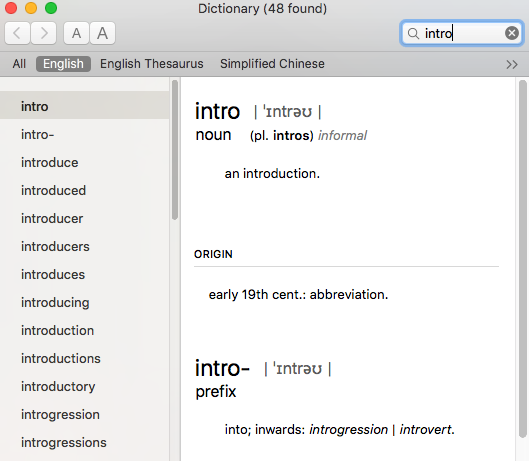
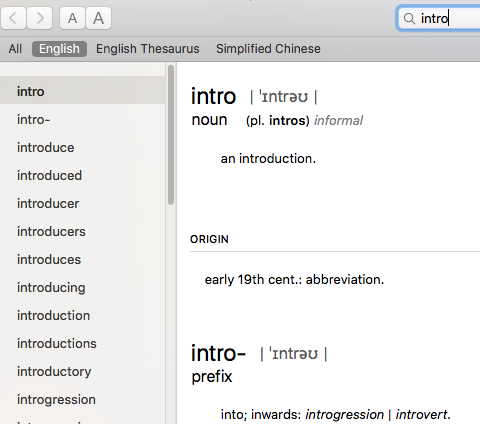
Update the figures

diff --git a/datastruct/tree/trie/trie-en.tex b/datastruct/tree/trie/trie-en.tex
@@ -802,32 +802,20 @@ The prefix testing is linear to the length of the list, the $lookup$ algorithm i
 \end{Exercise}
 
 \section{Applications of trie and prefix tree}
+We can use trie and prefix tree to solve many interesting problems, like implement a dictionary, populate candidate inputs, and realize the textonym input method. Different from the industry implementation, we give the examples to illustrate the ideas of trie and prefix tree.
 
-Trie and prefix tree can be used to solve many interesting problems.
-Integer based prefix tree is used in compiler implementation. Some daily
-used software applications have many interesting features which can be
-realized with trie or prefix tree. In this section, we give some examples,
-including, e-dictionary, word auto-completion, T9
-input method etc. Different from the commerial implementation, the
-solutions we demonstrated here are for illustration purpose
-only.
-
-\subsection{E-dictionary and word auto-completion}
+\subsection{Dictionary and input completion}
 \index{Auto completion}
-Figure \ref{fig:e-dict} shows a screen shot of an E-dictionary.
-When user enters characters,
-the dictionary searches its word library, then lists the candidate words and
-phrases starts from what the user input.
+As shown in figure \ref{fig:e-dict}, when user enters some characters, the dictionary application searches the word library, populates a list of candidate words or phrases that start from what input.
 
 \begin{figure}[htbp]
   \centering
-  \includegraphics[scale=0.4]{img/edict-en.eps}
-  \caption{E-dictionary. All candidates starting with what the user input are listed.}
+  \includegraphics[scale=0.4]{img/edict-en.png}
+  \caption{A dictionary application}
   \label{fig:e-dict}
 \end{figure}
 
-A E-dictionary typically contains hundreds of thousands words. It's very expensive
-to perform a complete search. Commercial software adopts complex approaches, including
+A dictionary can contain hundreds of thousands words. It's expensive to perform a complete search. Commercial software adopts complex approaches, including
 caching, indexing etc to speed up this process.
 
 Similar with e-dictionary, figure \ref{fig:word-completion} shows a popular
@@ -838,7 +826,7 @@ upper position it is in the list.
 
 \begin{figure}[htbp]
   \centering
-  \includegraphics[scale=0.5]{img/adaptive-input.eps}
+  \includegraphics[scale=0.5]{img/adaptive-input.png}
   \caption{A search engine. All candidates starting with what user input are listed.}
   \label{fig:word-completion}
 \end{figure}
